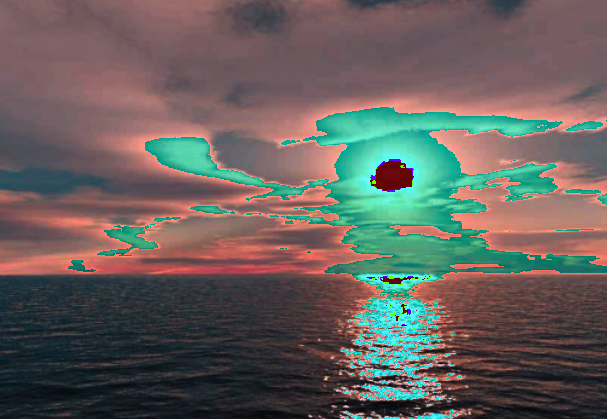
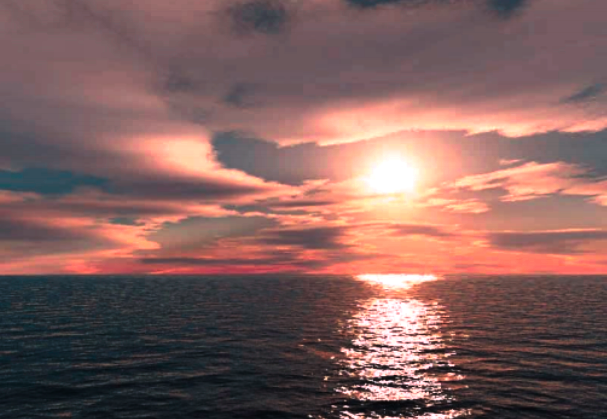
fix
np.uint8の前に値の範囲を指定するようにした

diff --git a/color_transfer.py b/color_transfer.py
@@ -95,6 +95,7 @@ class Conversion_Srgb_LSM:
         srgb_img = torch.einsum("whc, mc -> whm", lms_img, self.lms_to_srgb)
         if not self.modify_matrix:
             srgb_img = self.to_srgb_gamma(srgb_img)
+        srgb_img = torch.clamp(srgb_img, min=0, max=1)
         return srgb_img
 
 

diff --git a/README.md b/README.md
@@ -1,15 +1,22 @@
 # color_transfer
 
 Color Transfer Between images[^1]の実装をしました．
-入力画像の色味を参照画像に近づける画像処理アルゴリズムです．
-詳しくは[qiita][2]にまとめました．
+入力画像の色味を参照画像の色味に近づける画像処理アルゴリズムです．
+
+実行方法
+```
+python3 color_transfer. py source_img_path target_img_path save_dir/
+```
+
+アルゴリズムの詳細は[qiita][2]に書きました．
 
 # 実行結果
 |入力画像|参照画像|実行結果|入力画像と参照画像を逆に|論文中の結果|
 |---|---|---|---|---|
 |![参照画像](readme_images/fig2.png)|![入力画像](readme_images/fig1.png)|![逆に](readme_images/source=fig2target=fig1.png)|![入力画像と参照画像を逆に](readme_images/source=fig1target=fig2.png)|![論文中の実験結果](readme_images/reference2.png)|
 
-左から順に入力画像，参照画像，自分の実験結果，入力画像と参照画像を逆にした結果，論文中の実験結果です．論文の結果とは異なり自分の実験結果は色がおかしくなりました．原因の一つとして，結果のRGB画像を作成時に値の最大値が255を超えるため，色味がおかしくなっているのではないかと考えています．
+左から順に入力画像，参照画像，自分の実験結果，入力画像と参照画像を逆にした結果，論文中に乗っていた実験結果です． 
+入力画像の色が参照画像の色に近づきます．
 
 [1]:https://www.cs.tau.ac.il/~turkel/imagepapers/ColorTransfer.pdf
 
